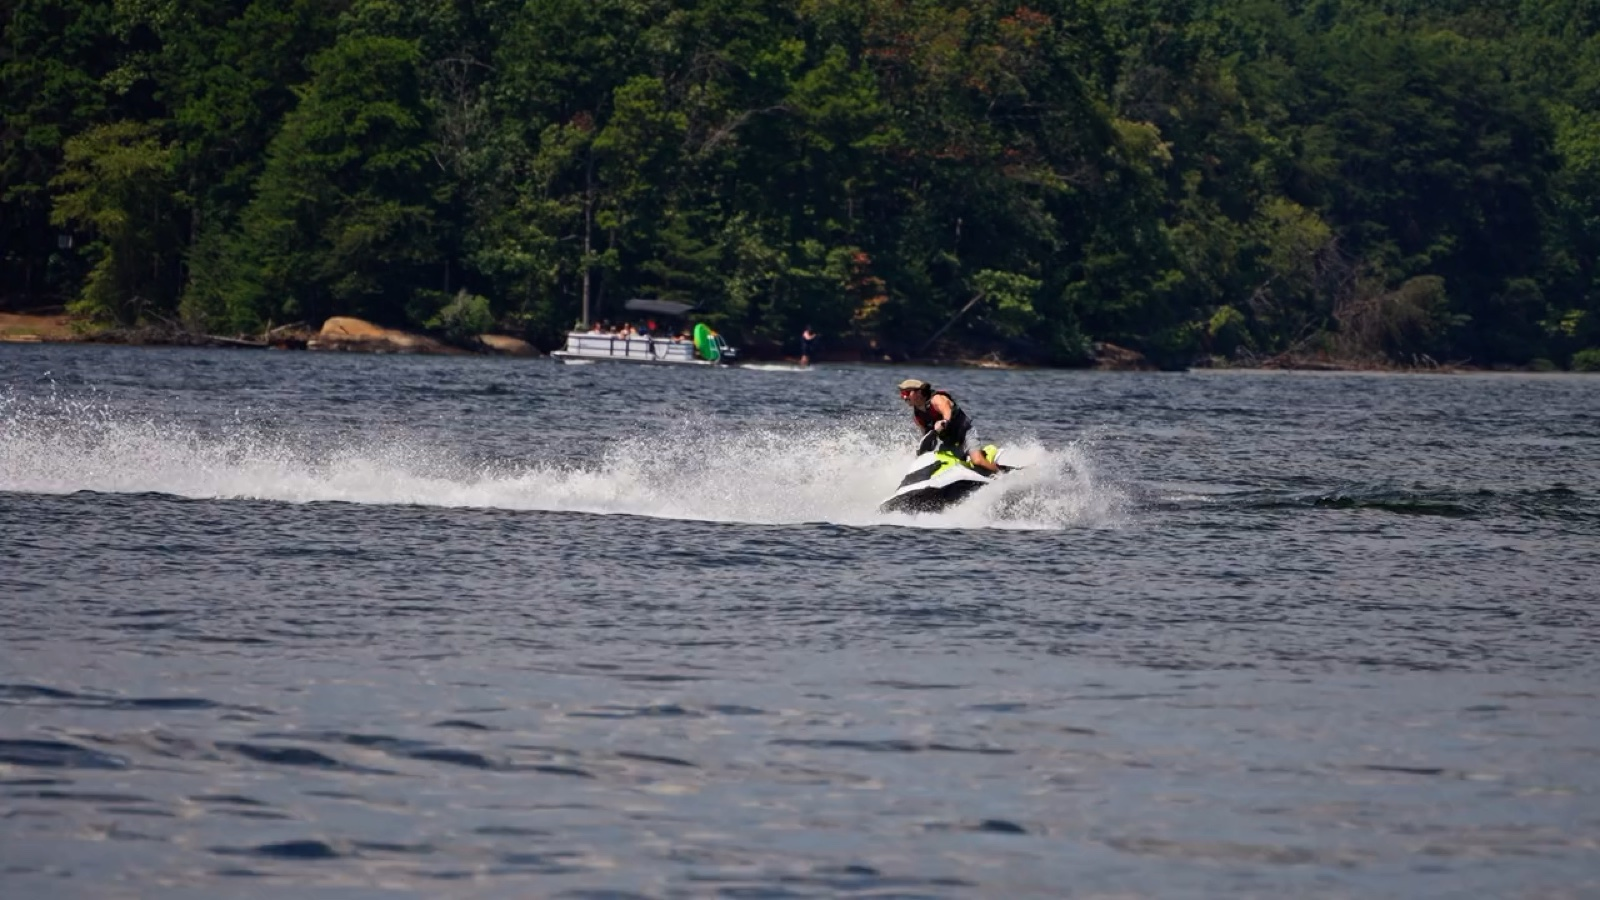
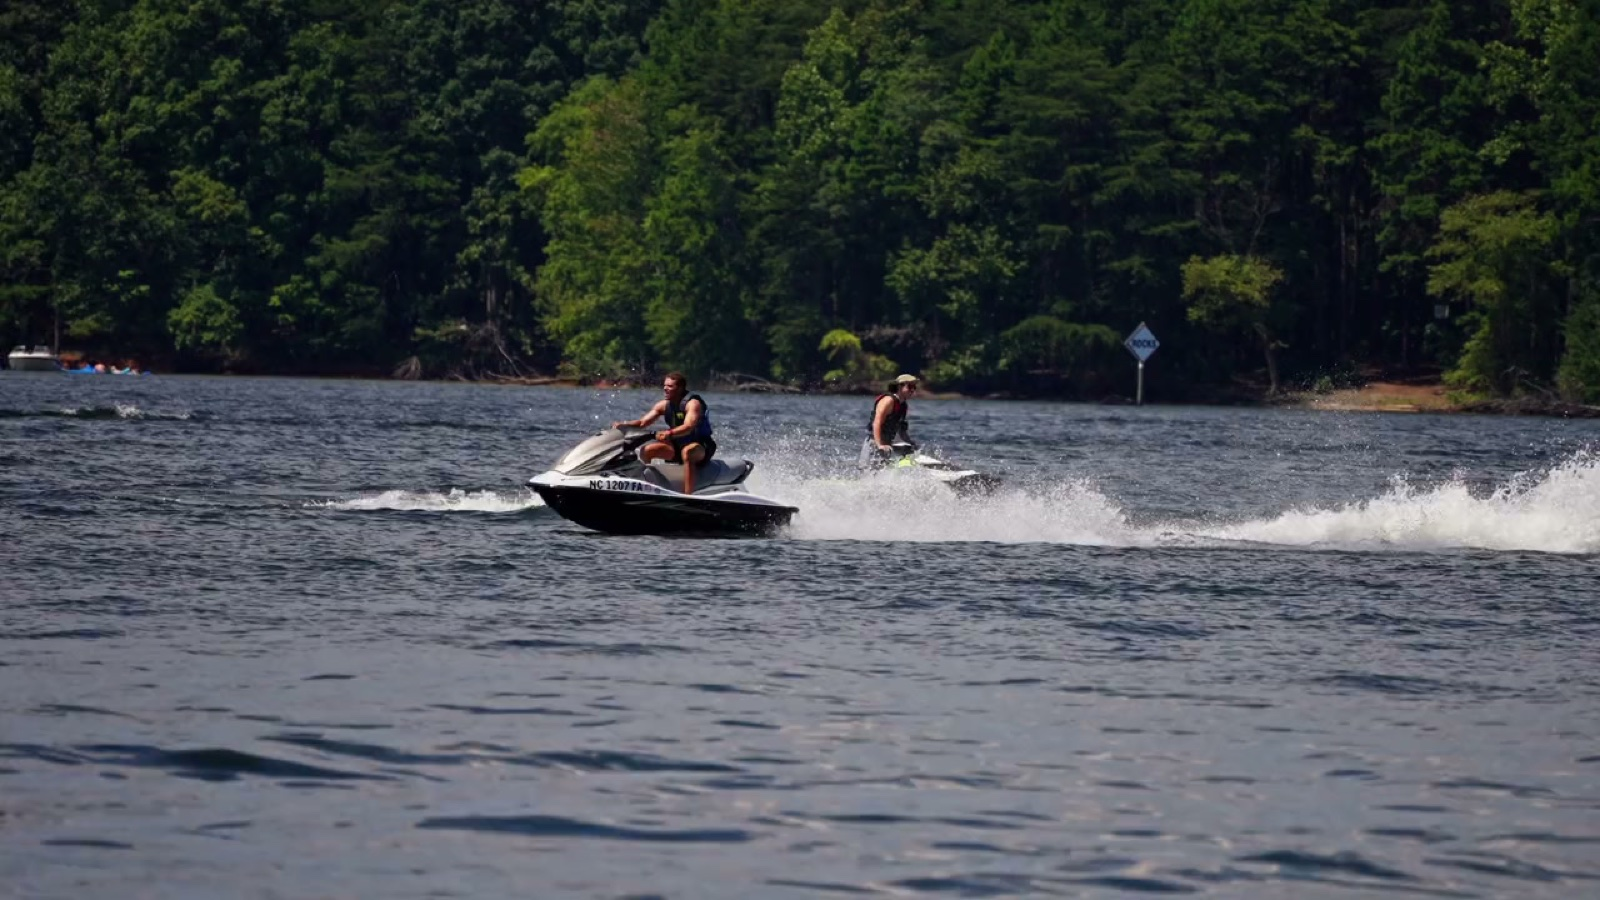
True first-frame posters, swapped showreel sides, Y-tunnus in footer
User feedback: the hero poster was a mid-clip frame, not the
actual first frame, so the cut-in to playback wasn't seamless.
Same complaint for the social showreel — the poster jpg sitting
in /public was generated long ago and didn't match frame 0 of
/Aloitusvideo.mp4 either.

Posters (now exact frame 0)
- Installed ffmpeg via Homebrew and re-extracted both posters
  with `select=eq(n,0)` so we get the literal first frame, not
  qlmanage's auto-picked representative frame.
- /skuutit/hero-poster.jpg: regenerated from the Pexels hero
  background video, resized via sips to 1600 px wide JPEG
  (≈ 400 KB).
- /Aloitusvideo-poster.jpg: regenerated from /Aloitusvideo.mp4,
  1200 px wide JPEG (≈ 145 KB). The showreel <img> in
  SocialFeed shows this still until the <video> mounts, then
  the video starts on the same frame — visually it looks like
  the still simply began to move.

Showreel column swap
- Desktop: phone now on the LEFT (order-1), heading + subtitle
  + follow buttons on the RIGHT (order-2). The previous order
  inverted "scan direction" from where the brand sits in the
  navbar / hero, so flipping it pairs better with the rest of
  the page rhythm.
- Mobile: phone still renders first (order-1), text below — no
  change to the mobile reading order.
- Decorative "82" outline moved from bottom-right to top-right
  so it doesn't sit behind the heading after the swap.

Copy
- t.socialFeed.eyebrow: "Live feed" → "Seuraa meitä" (fi),
[…]

diff --git a/components/SocialFeed.tsx b/components/SocialFeed.tsx
@@ -82,7 +82,7 @@ export default function SocialFeed() {
 
       <span
         aria-hidden
-        className="num82-outline hidden lg:block absolute right-6 bottom-2 font-display font-extrabold text-[6rem] leading-none select-none pointer-events-none tracking-tighter"
+        className="num82-outline hidden lg:block absolute right-6 top-6 font-display font-extrabold text-[6rem] leading-none select-none pointer-events-none tracking-tighter"
       >
         82
       </span>
@@ -92,10 +92,13 @@ export default function SocialFeed() {
             Below lg the grid collapses to a single column so the
             heading sits above the phone on tablets / phones. */}
         <div className="grid lg:grid-cols-2 gap-10 lg:gap-16 items-center">
-          {/* LEFT — heading + subtitle + follow buttons */}
+          {/* On lg+ this column sits on the RIGHT (order-2),
+              holding heading + subtitle + follow buttons.
+              On mobile it falls below the phone (order-2 still
+              works because the phone takes order-1). */}
           <div
             ref={containerRef}
-            className="text-left order-2 lg:order-1"
+            className="text-left order-2 lg:order-2"
           >
             <span className="section-eyebrow">{t.socialFeed.eyebrow}</span>
             <h2 className="section-title mt-2 text-left">
@@ -136,8 +139,11 @@ export default function SocialFeed() {
             </div>
           </div>
 
-          {/* RIGHT — phone mockup */}
-          <div className="order-1 lg:order-2 flex justify-center lg:justify-end">
+          {/* On lg+ this column sits on the LEFT (order-1)
+              holding the phone mockup, with the heading on the
+              right. On mobile it's still order-1 so the phone
+              renders first. */}
+          <div className="order-1 lg:order-1 flex justify-center lg:justify-start">
             <div
               className="relative w-full max-w-[280px] sm:max-w-[300px] lg:max-w-[260px] xl:max-w-[280px] aspect-[9/16] rounded-[2.5rem] overflow-hidden shadow-card border-[6px] border-brand-secondary bg-brand-secondary"
             >

diff --git a/app/layout.tsx b/app/layout.tsx
@@ -136,6 +136,11 @@ const localBusinessJsonLd = {
   image: [`${SITE_URL}/logo.png`, `${SITE_URL}/Aloitusvideo-poster.jpg`],
   telephone: "+358401866664",
   email: "82rentals.info@gmail.com",
+  // Finnish business ID (Y-tunnus). Helps Google match the
+  // organisation across PRH / Kauppalehti / YTJ records and
+  // confirms the SERP listing is a real registered business.
+  taxID: "FI36243856",
+  vatID: "FI36243856",
   priceRange: "€€",
   description:
     "Vesijetin vuokraus Helsingissä Kipparlahden satamasta. Polttoaine, pelastusliivit ja vakuutus aina hintaan. Helppo online-varaus. Jet ski rental in Helsinki — book online.",

diff --git a/components/Footer.tsx b/components/Footer.tsx
@@ -164,8 +164,9 @@ export default function Footer() {
       </div>
 
       <div className="relative border-t border-white/10">
-        <div className="max-w-7xl mx-auto px-5 sm:px-8 py-5 text-xs text-white/55 text-center md:text-left">
-          © {year} 82Rentals Oy. {t.footer.rights}
+        <div className="max-w-7xl mx-auto px-5 sm:px-8 py-5 text-xs text-white/55 flex flex-col md:flex-row md:items-center md:justify-between gap-1.5 text-center md:text-left">
+          <div>© {year} 82Rentals Oy. {t.footer.rights}</div>
+          <div className="tabular-nums">Y-tunnus 3624385-6</div>
         </div>
       </div>
     </footer>

diff --git a/lib/i18n/dictionary.ts b/lib/i18n/dictionary.ts
@@ -92,7 +92,7 @@ export const dictionary = {
         "Me haemme vesijetin pois. Ei perävaunuja, ei parkkihuolia, vain muistoja.",
     },
     socialFeed: {
-      eyebrow: "Live feed",
+      eyebrow: "Seuraa meitä",
       titleA: "Me",
       titleHighlight: "somessa",
       titleB: ".",
@@ -742,7 +742,7 @@ export const dictionary = {
         "We pick the jet ski up. No trailers, no parking headaches, just memories.",
     },
     socialFeed: {
-      eyebrow: "Live feed",
+      eyebrow: "Follow us",
       titleA: "On",
       titleHighlight: "social",
       titleB: ".",
